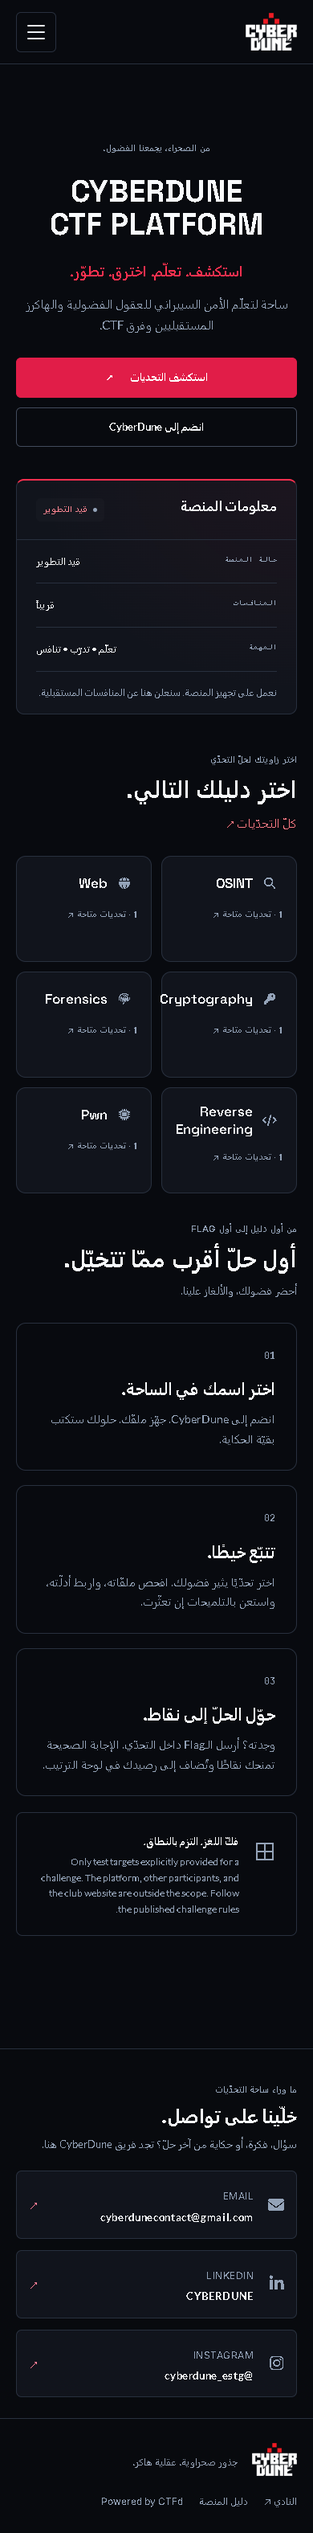
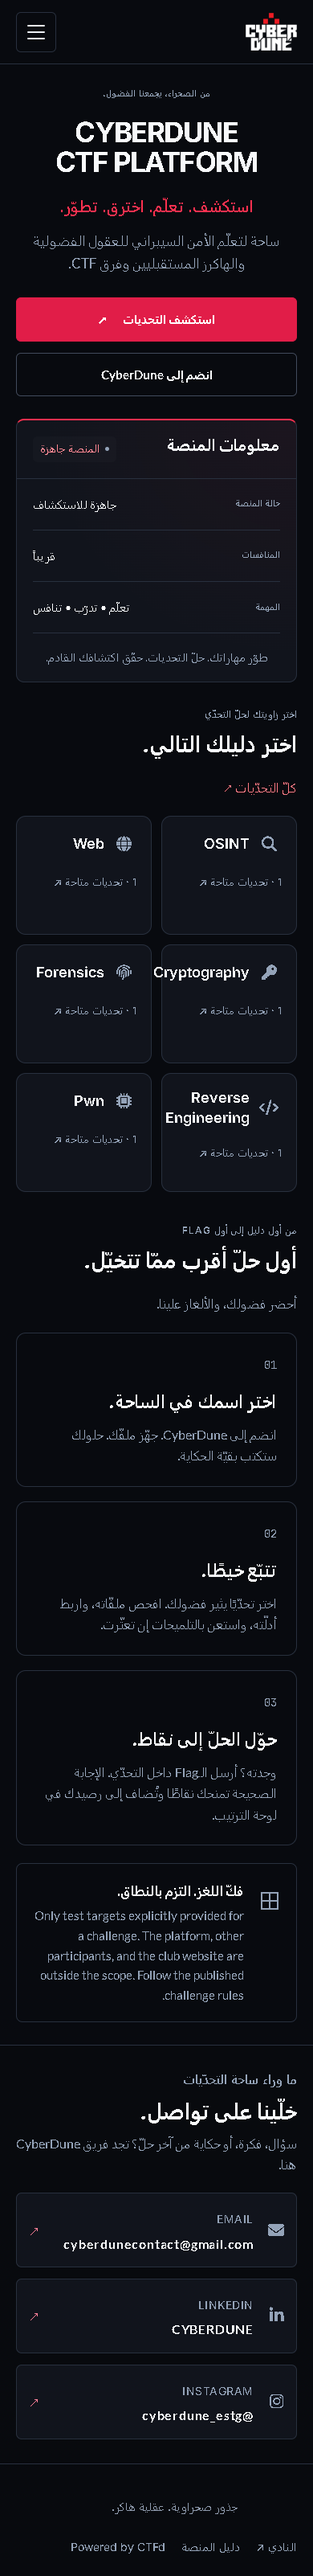
Polish ready platform with larger typography and compact layout

diff --git a/CTFd/themes/cyberdune/static/css/operations.css b/CTFd/themes/cyberdune/static/css/operations.css
@@ -76,3 +76,79 @@
 @media (prefers-reduced-motion: reduce) {
   .cd-app *, .cd-app *::before, .cd-app *::after { animation: none !important; transition: none !important; }
 }
+
+/* Ready platform: larger type, wider content and a compact first screen. */
+body.cd-app { font-size: 17px; }
+.cd-app .container { max-width: 1560px; padding-inline: clamp(20px, 3vw, 48px); }
+.cd-app h1, .cd-app h2, .cd-app h3 { font-family: Inter, system-ui, sans-serif; }
+.cd-app .cd-nav .nav-link { font-size: 15px; }
+.cd-app .cd-hero { display: grid; grid-template-columns: minmax(0, 1.2fr) minmax(0, 1fr); align-items: center; gap: 44px; padding-block: 48px 40px; text-align: start; }
+.cd-hero-copy { max-width: none; min-width: 0; width: 100%; }
+.cd-app .cd-hero .cd-eyebrow { max-width: none; margin-inline: 0; margin-bottom: 20px; font-size: 12px; }
+.cd-app .cd-hero .cd-brand-title { font-size: clamp(44px, 5.2vw, 84px); letter-spacing: -.045em; line-height: 1.06; margin-bottom: 0; }
+.cd-app .cd-platform-tagline { font-family: Inter, system-ui, sans-serif; font-size: clamp(20px, 2vw, 28px); margin-block: 22px 14px; }
+.cd-app .cd-hero .cd-hero-description { font-size: 19px; line-height: 1.65; max-width: 660px; margin-inline: 0; margin-bottom: 26px; }
+.cd-app .cd-hero .cd-actions { justify-content: flex-start; gap: 14px; }
+.cd-app .cd-actions .btn { font-size: 16px; padding: 15px 24px; min-height: 54px; }
+.cd-app .cd-platform-panel { width: 100%; min-width: 0; max-width: none; margin: 0; }
+.cd-platform-panel .cd-briefing-head { padding: 24px; flex-wrap: wrap; }
+.cd-platform-panel .cd-briefing-head h2 { font-size: 22px; }
+.cd-platform-panel .cd-status { font-size: 13px; }
+.cd-platform-panel .cd-briefing dt { font: 500 13px/1.6 Inter, system-ui, sans-serif; letter-spacing: .04em; }
+.cd-platform-panel .cd-briefing dd { font-size: 16px; }
+.cd-platform-panel .cd-briefing dl>div { padding-block: 20px; align-items: center; }
+.cd-platform-panel .cd-briefing-foot { font-size: 15px; padding: 20px 24px; }
+.cd-app .cd-section-heading { margin-bottom: 22px; gap: 24px; }
+.cd-app .cd-section-heading h2, .cd-app .cd-comms-heading h2 { font-size: clamp(28px, 2.5vw, 38px); }
+.cd-app .cd-section-heading .cd-eyebrow { font-size: 12px; margin-bottom: 12px; }
+.cd-app .cd-section-heading>p, .cd-app .cd-section-heading>a { font-size: 16px; }
+.cd-app .cd-home-categories { gap: 18px; }
+.cd-app .cd-home-category { padding: 28px; min-height: 164px; gap: 22px; }
+.cd-app .cd-home-category strong { font-family: Inter, system-ui, sans-serif; font-size: 23px; line-height: 1.35; }
+.cd-app .cd-home-category>span { font-size: 15px; }
+.cd-app .cd-category-symbol { font-size: 19px; width: 32px; height: 32px; }
+.cd-app .cd-guide { padding-top: 38px; }
+.cd-app .cd-guide-grid { gap: 18px; }
+.cd-app .cd-guide-grid article { padding: 28px; }
+.cd-app .cd-guide-grid h3 { font-size: 25px; margin-block: 20px 14px; }
+.cd-app .cd-guide-grid p { font-size: 16px; line-height: 1.65; }
+.cd-app .cd-guide-grid .cd-step { font-size: 14px; }
+.cd-app .cd-scope { margin-top: 22px; padding: 22px 26px; }
+.cd-app .cd-scope strong { font-size: 17px; }
+.cd-app .cd-scope p { font-size: 15px; line-height: 1.65; }
+.cd-app main { padding-top: 0; padding-bottom: 28px; margin-bottom: 0; }
+.cd-app .cd-comms { padding-block: 30px; }
+.cd-app .cd-comms-heading p { font-size: 16px; }
+.cd-app .cd-comms-links strong { font-size: 16px; }
+.cd-app .cd-comms-links small { font-size: 12px; }
+.cd-app .cd-footer { padding-top: 0; padding-bottom: 24px; }
+.cd-app .cd-footer small, .cd-app .cd-footer-links a { font-size: 14px; }
+@media (max-width: 1199px) {
+  .cd-app .cd-hero { grid-template-columns: 1fr; gap: 28px; text-align: center; }
+  .cd-app .cd-hero .cd-eyebrow, .cd-app .cd-hero .cd-hero-description { margin-inline: auto; }
+  .cd-app .cd-hero .cd-actions { justify-content: center; }
+}
+@media (max-width: 767px) {
+  .cd-app .container { padding-inline: 20px; }
+  .cd-app .cd-hero { padding-block: 28px 30px; }
+  .cd-app .cd-hero .cd-brand-title { font-size: clamp(34px, 9vw, 60px); }
+  .cd-app .cd-hero .cd-eyebrow { font-size: 11px; }
+  .cd-app .cd-hero .cd-hero-description { font-size: 17px; }
+  .cd-app .cd-actions .btn { font-size: 15px; }
+  .cd-platform-panel .cd-briefing-head { padding: 20px; }
+  .cd-platform-panel .cd-briefing-head h2 { font-size: 20px; }
+  .cd-platform-panel .cd-briefing-body { padding-inline: 20px; }
+  .cd-platform-panel .cd-briefing dt { font-size: 11px; }
+  .cd-platform-panel .cd-briefing dd { font-size: 14px; }
+  .cd-platform-panel .cd-briefing-foot { padding: 18px 20px; font-size: 14px; }
+  .cd-app .cd-home-categories { gap: 12px; }
+  .cd-app .cd-home-category { padding: 18px; min-height: 148px; }
+  .cd-app .cd-home-category strong { font-size: 18px; gap: 8px; }
+  .cd-app .cd-home-category>span { font-size: 13px; }
+  .cd-app .cd-guide-grid article { padding: 24px; }
+  .cd-app .cd-guide-grid h3 { font-size: 23px; }
+  .cd-app .cd-scope { padding: 20px; }
+}
+@media (max-width: 359px) {
+  .cd-app .cd-home-categories { grid-template-columns: 1fr; }
+}

diff --git a/CTFd/themes/cyberdune/templates/components/copy.html b/CTFd/themes/cyberdune/templates/components/copy.html
@@ -1,5 +1,8 @@
 {% set messages = {
   "en": {
+    "Platform ready": "Platform ready",
+    "Ready to explore": "Ready to explore",
+    "Sharpen your skills. Solve challenges. Build your next breakthrough.": "Sharpen your skills. Solve challenges. Build your next breakthrough.",
     "View event details": "View event details",
     "Explore. Learn. Hack. Evolve.": "Explore. Learn. Hack. Evolve.",
     "A cybersecurity playground built for curious minds, future hackers, and competitive CTF teams.": "A cybersecurity playground built for curious minds, future hackers, and competitive CTF teams.",
@@ -7,12 +10,10 @@
     "Platform guide": "Platform guide",
     "Platform intelligence": "Platform intelligence",
     "PLATFORM STATUS": "PLATFORM STATUS",
-    "Under Development": "Under Development",
     "COMPETITIONS": "COMPETITIONS",
     "Coming Soon": "Coming Soon",
     "MISSION": "MISSION",
     "Learn • Practice • Compete": "Learn • Practice • Compete",
-    "We’re building the playground. Future competitions will be announced here.": "We’re building the playground. Future competitions will be announced here.",
     "Competition": "Competition",
     "Start time": "Start time",
     "End time": "End time",
@@ -147,6 +148,9 @@
     "Hide password": "Hide password"
   },
   "fr": {
+    "Platform ready": "Plateforme prête",
+    "Ready to explore": "Prête à explorer",
+    "Sharpen your skills. Solve challenges. Build your next breakthrough.": "Affûtez vos compétences. Résolvez des défis. Préparez votre prochaine découverte.",
     "View event details": "Voir les détails de la compétition",
     "Explore. Learn. Hack. Evolve.": "Explorer. Apprendre. Hacker. Évoluer.",
     "A cybersecurity playground built for curious minds, future hackers, and competitive CTF teams.": "Un terrain de jeu en cybersécurité pour les esprits curieux, les futurs hackers et les équipes CTF.",
@@ -154,12 +158,10 @@
     "Platform guide": "Guide de la plateforme",
     "Platform intelligence": "Informations de la plateforme",
     "PLATFORM STATUS": "ÉTAT DE LA PLATEFORME",
-    "Under Development": "En développement",
     "COMPETITIONS": "COMPÉTITIONS",
     "Coming Soon": "Bientôt",
     "MISSION": "MISSION",
     "Learn • Practice • Compete": "Apprendre • Pratiquer • Participer",
-    "We’re building the playground. Future competitions will be announced here.": "Nous préparons le terrain de jeu. Les futures compétitions seront annoncées ici.",
     "Competition": "Compétition",
     "Start time": "Début",
     "End time": "Fin",
@@ -294,6 +296,9 @@
     "Hide password": "Masquer le mot de passe"
   },
   "ar": {
+    "Platform ready": "المنصة جاهزة",
+    "Ready to explore": "جاهزة للاستكشاف",
+    "Sharpen your skills. Solve challenges. Build your next breakthrough.": "طوّر مهاراتك. حلّ التحديات. حقّق اكتشافك القادم.",
     "View event details": "عرض تفاصيل المنافسة",
     "Explore. Learn. Hack. Evolve.": "استكشف. تعلّم. اخترق. تطوّر.",
     "A cybersecurity playground built for curious minds, future hackers, and competitive CTF teams.": "ساحة لتعلّم الأمن السيبراني للعقول الفضولية والهاكرز المستقبليين وفرق CTF.",
@@ -301,12 +306,10 @@
     "Platform guide": "دليل المنصة",
     "Platform intelligence": "معلومات المنصة",
     "PLATFORM STATUS": "حالة المنصة",
-    "Under Development": "قيد التطوير",
     "COMPETITIONS": "المنافسات",
     "Coming Soon": "قريباً",
     "MISSION": "المهمة",
     "Learn • Practice • Compete": "تعلّم • تدرّب • تنافس",
-    "We’re building the playground. Future competitions will be announced here.": "نعمل على تجهيز المنصة. سنعلن هنا عن المنافسات المستقبلية.",
     "Competition": "المنافسة",
     "Start time": "وقت البداية",
     "End time": "وقت النهاية",

diff --git a/CTFd/themes/cyberdune/templates/base.html b/CTFd/themes/cyberdune/templates/base.html
@@ -1,5 +1,5 @@
 {% from "components/copy.html" import cd_copy, messages with context %}
-{% set cd_presentation = CyberdunePresentation | default({'mode': 'platform', 'status': 'Under Development'}) %}
+{% set cd_presentation = CyberdunePresentation | default({'mode': 'platform', 'status': 'Platform ready'}) %}
 <!DOCTYPE html>
 <html lang="{{ get_locale() }}" dir="{{ 'rtl' if get_locale() | string == 'ar' else 'ltr' }}" data-bs-theme="dark">
 <head>
@@ -11,8 +11,8 @@
   {% block stylesheets %}{{ Assets.css("assets/scss/main.scss", theme="core") }}{% endblock %}
   {{ Plugins.styles }}
   {{ Configs.theme_header }}
-  <link rel="stylesheet" href="{{ url_for('views.themes_beta', theme='cyberdune', path='css/cyberdune.css') }}?v=13">
-  <link rel="stylesheet" href="{{ url_for('views.themes_beta', theme='cyberdune', path='css/operations.css') }}?v=13">
+  <link rel="stylesheet" href="{{ url_for('views.themes_beta', theme='cyberdune', path='css/cyberdune.css') }}?v=14">
+  <link rel="stylesheet" href="{{ url_for('views.themes_beta', theme='cyberdune', path='css/operations.css') }}?v=14">
   <script>
     window.cyberduneCopy = {{ messages.get(get_locale() | string, messages.en) | tojson }};
     window.init = {
@@ -50,13 +50,13 @@
   <footer class="cd-footer">
     {% include 'components/contacts.html' %}
     <div class="container cd-footer-inner">
-      <div class="cd-footer-brand"><span class="cd-official-logo"><img src="{{ url_for('views.themes_beta', theme='cyberdune', path='img/cyberdune-white.png') }}?v=13" alt="CyberDune" width="11812" height="11812" loading="lazy"></span><small>{{ cd_copy("Sahara roots. Hacker mindset.") }}</small></div>
+      <div class="cd-footer-brand"><span class="cd-official-logo"><img src="{{ url_for('views.themes_beta', theme='cyberdune', path='img/cyberdune-white.png') }}?v=14" alt="CyberDune" width="11812" height="11812" loading="lazy"></span><small>{{ cd_copy("Sahara roots. Hacker mindset.") }}</small></div>
       <div class="cd-footer-links"><a href="https://cyberdune.online" target="_blank" rel="noopener">{{ cd_copy("The club \u2197") }}</a><a href="{{ url_for('views.static_html', route='/') }}#platform-guide">{{ cd_copy("Platform guide") }}</a><a href="https://ctfd.io" target="_blank" rel="noopener">Powered by CTFd</a></div>
     </div>
   </footer>
   {% include 'components/notifications.html' %}
-  <script src="{{ url_for('views.themes_beta', theme='cyberdune', path='js/cyberdune.js') }}?v=13"></script>
-  <script src="{{ url_for('views.themes_beta', theme='cyberdune', path='js/operations.js') }}?v=13"></script>
+  <script src="{{ url_for('views.themes_beta', theme='cyberdune', path='js/cyberdune.js') }}?v=14"></script>
+  <script src="{{ url_for('views.themes_beta', theme='cyberdune', path='js/operations.js') }}?v=14"></script>
   {% block scripts %}{{ Assets.js("assets/js/page.js", theme="core") }}{% endblock %}
   {{ Plugins.scripts }}
   {{ Configs.theme_footer }}

diff --git a/CTFd/themes/cyberdune/templates/components/landing.html b/CTFd/themes/cyberdune/templates/components/landing.html
@@ -19,8 +19,7 @@
       {% if not authed() and registration_visible() %}<a class="btn btn-outline-secondary" href="{{ url_for('auth.register') }}">{{ cd_copy("Join CyberDune") }}</a>{% else %}<a class="btn btn-outline-secondary" href="{{ url_for('views.static_html', route='/') }}#platform-guide">{{ cd_copy("Your first flag starts here") }}</a>{% endif %}
     </div>
   </div>
-</section>
-<section class="container cd-platform-panel" aria-labelledby="cd-platform-panel-title">
+<aside class="cd-platform-panel" aria-labelledby="cd-platform-panel-title">
   <div class="cd-briefing">
     <div class="cd-briefing-head"><h2 id="cd-platform-panel-title">{{ cd_copy("Mission briefing") if cd_presentation.mode == 'event' else cd_copy("Platform intelligence") }}</h2>{% include 'components/presentation-status.html' %}</div>
     <div class="cd-briefing-body"><dl>
@@ -29,7 +28,7 @@
       <div><dt>{{ cd_copy("Start time") }}</dt><dd><time data-event-start datetime="{{ cd_presentation.start_date }}">{{ cd_presentation.start_date }}</time></dd></div>
       <div><dt>{{ cd_copy("End time") }}</dt><dd><time data-event-end datetime="{{ cd_presentation.end_date }}">{{ cd_presentation.end_date }}</time></dd></div>
       {% else %}
-      <div><dt>{{ cd_copy("PLATFORM STATUS") }}</dt><dd>{{ cd_copy("Under Development") }}</dd></div>
+      <div><dt>{{ cd_copy("PLATFORM STATUS") }}</dt><dd>{{ cd_copy("Ready to explore") }}</dd></div>
       <div><dt>{{ cd_copy("COMPETITIONS") }}</dt><dd>{{ cd_copy("Coming Soon") }}</dd></div>
       <div><dt>{{ cd_copy("MISSION") }}</dt><dd>{{ cd_copy("Learn • Practice • Compete") }}</dd></div>
       {% endif %}
@@ -37,9 +36,10 @@
     {% if cd_presentation.mode == 'event' %}
     <div class="cd-briefing-foot" data-countdown hidden><span data-countdown-label></span> <strong data-countdown-value></strong></div>
     {% else %}
-    <p class="cd-briefing-foot">{{ cd_copy("We’re building the playground. Future competitions will be announced here.") }}</p>
+    <p class="cd-briefing-foot">{{ cd_copy("Sharpen your skills. Solve challenges. Build your next breakthrough.") }}</p>
     {% endif %}
   </div>
+</aside>
 </section>
 <section class="container cd-home-workspace" data-home-workspace
   data-load-challenges="{{ 'true' if Configs.challenge_visibility == 'public' or (Configs.challenge_visibility == 'private' and authed()) or is_admin() else 'false' }}"

diff --git a/CTFd/themes/cyberdune/templates/config.html b/CTFd/themes/cyberdune/templates/config.html
@@ -2,7 +2,7 @@
   <div class="form-group">
     <label for="cyberdune-mode">CYBERDUNE presentation mode</label>
     <select class="form-control custom-select" id="cyberdune-mode" name="cyberdune_mode">
-      <option value="platform">Platform — Under Development (default)</option>
+      <option value="platform">Platform — Ready (default)</option>
       <option value="event">Event — explicitly announce configured competition</option>
     </select>
     <small class="form-text text-muted">Event mode requires a competition name and valid start/end times in Config → General and CTF Time. Dates alone never enable Event Mode. This setting only controls presentation.</small>

diff --git a/tests/test_cyberdune_presentation.py b/tests/test_cyberdune_presentation.py
@@ -17,7 +17,7 @@ class PresentationTests(unittest.TestCase):
     def test_dates_never_enable_event(self):
         for settings in [None, "{}", "null", "[]", "broken", '{"cyberdune_mode":"platform"}', '{"cyberdune_mode":true}']:
             with self.subTest(settings=settings):
-                self.assertEqual(render_state(settings), {"mode": "platform", "status": "Under Development"})
+                self.assertEqual(render_state(settings), {"mode": "platform", "status": "Platform ready"})
 
     def test_invalid_schedule_fails_closed(self):
         for start, end in [(None, 2000), (1000, None), (0, 2000), (2000, 1000), (1000, 1000), ("bad", 2000), (1000, 10**30)]:

diff --git a/CTFd/plugins/cyberdune_presentation/__init__.py b/CTFd/plugins/cyberdune_presentation/__init__.py
@@ -13,7 +13,7 @@ def presentation():
         settings = {}
     if not isinstance(settings, dict):
         settings = {}
-    result = {"mode": "platform", "status": "Under Development"}
+    result = {"mode": "platform", "status": "Platform ready"}
     if settings.get("cyberdune_mode") != "event":
         return result
     try:

diff --git a/docs/THEME.md b/docs/THEME.md
@@ -87,12 +87,12 @@ states, scores, profiles, languages, notifications and logout. See
 ## Professional visual refinement
 
 `static/css/operations.css` refines the existing theme with readable labels,
-consistent card spacing, restrained red accents and clean surfaces. The hero is centered with white/gray typography and clear actions. The homepage
-The default homepage uses a development information panel. Dates, event status and countdown are opt-in through [Event Mode](PLATFORM-MODE.md). Decorative network art, typing
+consistent card spacing, restrained red accents and clean surfaces. The hero and platform panel share the desktop row, with larger Inter typography and clear actions; mobile uses a centered single-column layout. The homepage
+The default homepage uses a platform information panel. Dates, event status and countdown are opt-in through [Event Mode](PLATFORM-MODE.md). Decorative network art, typing
 labels, HUD corners, scan lines and redundant club chips were removed.
 
 `static/js/operations.js` only adds finite highlights to real score/solve updates.
 No animation loop, motion preference control or extra API polling is needed.
 Reduced motion suppresses those highlights. Category icons use existing fonts.
 The authoritative palette and page grids remain in `cyberdune.css`; cache version
-13 loads the refinement after the baseline stylesheet. Auth and scoring stay CTFd.
+14 loads the refinement after the baseline stylesheet. Auth and scoring stay CTFd.

diff --git a/docs/VALIDATION.md b/docs/VALIDATION.md
@@ -121,3 +121,23 @@ accessed or changed.
 Activation and deployed-date cleanup: [Platform Mode guide](PLATFORM-MODE.md).
 The original event status came from CTFd timing keys read by theme JavaScript;
 there is no local persistent database from which to inspect production values.
+
+
+## Ready platform typography and spacing — 2026-10-11
+
+Platform Mode now shows “Platform ready” / “Ready to explore”, with no development
+announcement. The same neutral status applies to challenge and scoreboard
+headers. No event is enabled by this copy change.
+
+The existing layout now uses larger Inter headings and body text, wider content,
+a hero beside the platform panel on desktop, larger category/guide cards, and
+compact section spacing. Inherited core-theme main padding and bottom margin
+were removed. Mobile retains a single-column hero and panel, with readable
+category cards and no horizontal overflow.
+
+
+The updated ready-platform layout passes browser checks at 320/390/768/1440px,
+mobile navigation and related-page rendering, with no JavaScript errors.
+English/French/Arabic and RTL checks pass. The existing future-event status and
+countdown checks and focused presentation unit checks also pass. Updated
+screenshots use isolated QA fixture data.

diff --git a/docs/PLATFORM-MODE.md b/docs/PLATFORM-MODE.md
@@ -1,7 +1,7 @@
 # CYBERDUNE platform and event presentation
 
 Platform Mode is the default. Existing or sample CTFd dates never activate an
-event. The homepage shows CYBERDUNE CTF PLATFORM, the development status,
+event. The homepage shows CYBERDUNE CTF PLATFORM, the platform-ready status,
 upcoming competitions and the learning mission, using the existing theme.
 Challenge navigation and all CTFd features remain available under their existing
 permissions. Homepage participant metrics and standings previews appear only
@@ -22,7 +22,7 @@ CTFd stores timings in its `configs` table, administered under **Admin → Confi
 running Docker deployment; QA uses a separate in-memory fixture database.
 The actual deployed values therefore cannot be asserted from this checkout.
 
-## Put an existing deployment into development mode
+## Put an existing deployment into Platform Mode
 
 After deploying this source and restarting CTFd, missing `cyberdune_mode` settings
 already render Platform Mode, regardless of saved dates. To explicitly select it

diff --git a/README.md b/README.md
@@ -18,7 +18,7 @@ teams and standings, with English, French and Arabic copy.
 ## What is included
 
 - Official CyberDune logo and responsive theme.
-- Default development landing with premium CYBERDUNE branding and explicit future Event Mode.
+- Ready platform landing with premium CYBERDUNE branding and explicit future Event Mode.
 - Clean club-branded hero, readable category cards and restrained red accents.
 - Reduced-motion support and finite highlights for real score/solve updates.
 - Clean club-branded hero, readable category cards and restrained red accents.
